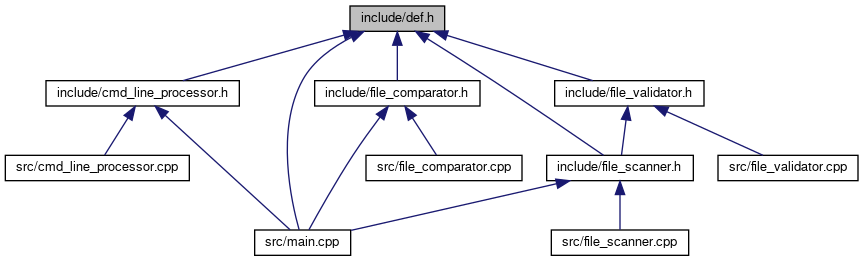
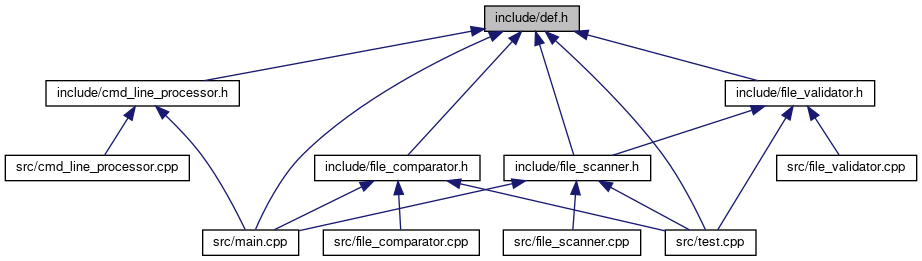
deploy: 3cbf4101b0ae74be3c38de68b1c8c677842af645

diff --git a/dir_000010_000000.html b/dir_000010_000000.html
@@ -65,7 +65,7 @@ $(function() {
 </div>
 </div><!-- top -->
 <div class="contents">
-<h3>src &rarr; include Relation</h3><table class="dirtab"><tr class="dirtab"><th class="dirtab">File in src</th><th class="dirtab">Includes file in include</th></tr><tr class="dirtab"><td class="dirtab"><a class="el" href="cmd__line__processor_8cpp.html">cmd_line_processor.cpp</a></td><td class="dirtab"><a class="el" href="cmd__line__processor_8h.html">cmd_line_processor.h</a></td></tr><tr class="dirtab"><td class="dirtab"><a class="el" href="file__comparator_8cpp.html">file_comparator.cpp</a></td><td class="dirtab"><a class="el" href="file__comparator_8h.html">file_comparator.h</a></td></tr><tr class="dirtab"><td class="dirtab"><a class="el" href="file__scanner_8cpp.html">file_scanner.cpp</a></td><td class="dirtab"><a class="el" href="file__scanner_8h.html">file_scanner.h</a></td></tr><tr class="dirtab"><td class="dirtab"><a class="el" href="file__validator_8cpp.html">file_validator.cpp</a></td><td class="dirtab"><a class="el" href="file__validator_8h.html">file_validator.h</a></td></tr><tr class="dirtab"><td class="dirtab"><a class="el" href="hash__algorithm_8cpp.html">hash_algorithm.cpp</a></td><td class="dirtab"><a class="el" href="hash__algorithm_8h.html">hash_algorithm.h</a></td></tr><tr class="dirtab"><td class="dirtab"><a class="el" href="src_2main_8cpp.html">main.cpp</a></td><td class="dirtab"><a class="el" href="cmd__line__processor_8h.html">cmd_line_processor.h</a></td></tr><tr class="dirtab"><td class="dirtab"><a class="el" href="src_2main_8cpp.html">main.cpp</a></td><td class="dirtab"><a class="el" href="def_8h.html">def.h</a></td></tr><tr class="dirtab"><td class="dirtab"><a class="el" href="src_2main_8cpp.html">main.cpp</a></td><td class="dirtab"><a class="el" href="file__comparator_8h.html">file_comparator.h</a></td></tr><tr class="dirtab"><td class="dirtab"><a class="el" href="src_2main_8cpp.html">main.cpp</a></td><td class="dirtab"><a class="el" href="file__scanner_8h.html">file_scanner.h</a></td></tr></table></div><!-- contents -->
+<h3>src &rarr; include Relation</h3><table class="dirtab"><tr class="dirtab"><th class="dirtab">File in src</th><th class="dirtab">Includes file in include</th></tr><tr class="dirtab"><td class="dirtab"><a class="el" href="cmd__line__processor_8cpp.html">cmd_line_processor.cpp</a></td><td class="dirtab"><a class="el" href="cmd__line__processor_8h.html">cmd_line_processor.h</a></td></tr><tr class="dirtab"><td class="dirtab"><a class="el" href="file__comparator_8cpp.html">file_comparator.cpp</a></td><td class="dirtab"><a class="el" href="file__comparator_8h.html">file_comparator.h</a></td></tr><tr class="dirtab"><td class="dirtab"><a class="el" href="file__scanner_8cpp.html">file_scanner.cpp</a></td><td class="dirtab"><a class="el" href="file__scanner_8h.html">file_scanner.h</a></td></tr><tr class="dirtab"><td class="dirtab"><a class="el" href="file__validator_8cpp.html">file_validator.cpp</a></td><td class="dirtab"><a class="el" href="file__validator_8h.html">file_validator.h</a></td></tr><tr class="dirtab"><td class="dirtab"><a class="el" href="hash__algorithm_8cpp.html">hash_algorithm.cpp</a></td><td class="dirtab"><a class="el" href="hash__algorithm_8h.html">hash_algorithm.h</a></td></tr><tr class="dirtab"><td class="dirtab"><a class="el" href="src_2main_8cpp.html">main.cpp</a></td><td class="dirtab"><a class="el" href="cmd__line__processor_8h.html">cmd_line_processor.h</a></td></tr><tr class="dirtab"><td class="dirtab"><a class="el" href="src_2main_8cpp.html">main.cpp</a></td><td class="dirtab"><a class="el" href="def_8h.html">def.h</a></td></tr><tr class="dirtab"><td class="dirtab"><a class="el" href="src_2main_8cpp.html">main.cpp</a></td><td class="dirtab"><a class="el" href="file__comparator_8h.html">file_comparator.h</a></td></tr><tr class="dirtab"><td class="dirtab"><a class="el" href="src_2main_8cpp.html">main.cpp</a></td><td class="dirtab"><a class="el" href="file__scanner_8h.html">file_scanner.h</a></td></tr><tr class="dirtab"><td class="dirtab"><a class="el" href="test_8cpp.html">test.cpp</a></td><td class="dirtab"><a class="el" href="def_8h.html">def.h</a></td></tr><tr class="dirtab"><td class="dirtab"><a class="el" href="test_8cpp.html">test.cpp</a></td><td class="dirtab"><a class="el" href="file__comparator_8h.html">file_comparator.h</a></td></tr><tr class="dirtab"><td class="dirtab"><a class="el" href="test_8cpp.html">test.cpp</a></td><td class="dirtab"><a class="el" href="file__scanner_8h.html">file_scanner.h</a></td></tr><tr class="dirtab"><td class="dirtab"><a class="el" href="test_8cpp.html">test.cpp</a></td><td class="dirtab"><a class="el" href="file__validator_8h.html">file_validator.h</a></td></tr><tr class="dirtab"><td class="dirtab"><a class="el" href="test_8cpp.html">test.cpp</a></td><td class="dirtab"><a class="el" href="hash__algorithm_8h.html">hash_algorithm.h</a></td></tr></table></div><!-- contents -->
 <!-- start footer part -->
 <hr class="footer"/><address class="footer"><small>
 Generated by&#160;<a href="https://www.doxygen.org/index.html"><img class="footer" src="doxygen.svg" width="104" height="31" alt="doxygen"/></a> 1.9.1

diff --git a/test_8cpp.html b/test_8cpp.html
@@ -73,13 +73,33 @@ $(function() {
 </div><!--header-->
 <div class="contents">
 <div class="textblock"><code>#include &lt;boost/test/unit_test.hpp&gt;</code><br />
+<code>#include &lt;iostream&gt;</code><br />
+<code>#include &lt;filesystem&gt;</code><br />
+<code>#include &quot;<a class="el" href="def_8h_source.html">../include/def.h</a>&quot;</code><br />
+<code>#include &quot;<a class="el" href="file__scanner_8h_source.html">../include/file_scanner.h</a>&quot;</code><br />
+<code>#include &quot;<a class="el" href="file__comparator_8h_source.html">../include/file_comparator.h</a>&quot;</code><br />
+<code>#include &quot;<a class="el" href="file__validator_8h_source.html">../include/file_validator.h</a>&quot;</code><br />
+<code>#include &quot;<a class="el" href="hash__algorithm_8h_source.html">../include/hash_algorithm.h</a>&quot;</code><br />
+<code>#include &lt;memory&gt;</code><br />
+<code>#include &lt;vector&gt;</code><br />
 </div><div class="textblock"><div class="dynheader">
 Include dependency graph for test.cpp:</div>
 <div class="dyncontent">
 <div class="center"><img src="test_8cpp__incl.png" border="0" usemap="#asrc_2test_8cpp" alt=""/></div>
 <map name="asrc_2test_8cpp" id="asrc_2test_8cpp">
-<area shape="rect" title=" " alt="" coords="39,5,130,32"/>
+<area shape="rect" title=" " alt="" coords="455,5,546,32"/>
 <area shape="rect" title=" " alt="" coords="5,80,164,107"/>
+<area shape="rect" title=" " alt="" coords="626,229,698,256"/>
+<area shape="rect" title=" " alt="" coords="239,229,319,256"/>
+<area shape="rect" href="def_8h.html" title=" " alt="" coords="496,229,601,256"/>
+<area shape="rect" title=" " alt="" coords="752,304,820,331"/>
+<area shape="rect" title=" " alt="" coords="429,304,487,331"/>
+<area shape="rect" href="file__scanner_8h.html" title=" " alt="" coords="365,80,521,107"/>
+<area shape="rect" href="file__validator_8h.html" title=" " alt="" coords="315,155,419,181"/>
+<area shape="rect" href="file__comparator_8h.html" title=" " alt="" coords="648,155,823,181"/>
+<area shape="rect" href="hash__algorithm_8h.html" title=" " alt="" coords="886,229,1006,256"/>
+<area shape="rect" title=" " alt="" coords="515,304,582,331"/>
+<area shape="rect" title=" " alt="" coords="919,304,973,331"/>
 </map>
 </div>
 </div><table class="memberdecls">

diff --git a/def_8h.html b/def_8h.html
@@ -91,16 +91,17 @@ This graph shows which files directly or indirectly include this file:</div>
 <div class="dyncontent">
 <div class="center"><img src="def_8h__dep__incl.png" border="0" usemap="#ainclude_2def_8hdep" alt=""/></div>
 <map name="ainclude_2def_8hdep" id="ainclude_2def_8hdep">
-<area shape="rect" title=" " alt="" coords="350,5,445,32"/>
+<area shape="rect" title=" " alt="" coords="485,5,579,32"/>
 <area shape="rect" href="cmd__line__processor_8h.html" title=" " alt="" coords="46,80,239,107"/>
-<area shape="rect" href="src_2main_8cpp.html" title=" " alt="" coords="255,229,351,256"/>
-<area shape="rect" href="file__comparator_8h.html" title=" " alt="" coords="315,80,480,107"/>
-<area shape="rect" href="file__scanner_8h.html" title=" " alt="" coords="547,155,693,181"/>
-<area shape="rect" href="file__validator_8h.html" title=" " alt="" coords="555,80,704,107"/>
+<area shape="rect" href="src_2main_8cpp.html" title=" " alt="" coords="203,229,299,256"/>
+<area shape="rect" href="file__comparator_8h.html" title=" " alt="" coords="315,155,480,181"/>
+<area shape="rect" href="test_8cpp.html" title=" " alt="" coords="665,229,756,256"/>
+<area shape="rect" href="file__scanner_8h.html" title=" " alt="" coords="504,155,651,181"/>
+<area shape="rect" href="file__validator_8h.html" title=" " alt="" coords="725,80,875,107"/>
 <area shape="rect" href="cmd__line__processor_8cpp.html" title=" " alt="" coords="5,155,189,181"/>
-<area shape="rect" href="file__comparator_8cpp.html" title=" " alt="" coords="366,155,522,181"/>
-<area shape="rect" href="file__scanner_8cpp.html" title=" " alt="" coords="551,229,689,256"/>
-<area shape="rect" href="file__validator_8cpp.html" title=" " alt="" coords="718,155,858,181"/>
+<area shape="rect" href="file__comparator_8cpp.html" title=" " alt="" coords="323,229,479,256"/>
+<area shape="rect" href="file__scanner_8cpp.html" title=" " alt="" coords="503,229,641,256"/>
+<area shape="rect" href="file__validator_8cpp.html" title=" " alt="" coords="777,155,917,181"/>
 </map>
 </div>
 </div>

diff --git a/hash__algorithm_8h.html b/hash__algorithm_8h.html
@@ -89,9 +89,10 @@ This graph shows which files directly or indirectly include this file:</div>
 <div class="dyncontent">
 <div class="center"><img src="hash__algorithm_8h__dep__incl.png" border="0" usemap="#ainclude_2hash__algorithm_8hdep" alt=""/></div>
 <map name="ainclude_2hash__algorithm_8hdep" id="ainclude_2hash__algorithm_8hdep">
-<area shape="rect" title=" " alt="" coords="167,5,333,32"/>
-<area shape="rect" href="file__comparator_8h.html" title=" " alt="" coords="75,80,241,107"/>
-<area shape="rect" href="hash__algorithm_8cpp.html" title=" " alt="" coords="265,80,421,107"/>
+<area shape="rect" title=" " alt="" coords="270,5,435,32"/>
+<area shape="rect" href="file__comparator_8h.html" title=" " alt="" coords="150,80,315,107"/>
+<area shape="rect" href="test_8cpp.html" title=" " alt="" coords="307,155,398,181"/>
+<area shape="rect" href="hash__algorithm_8cpp.html" title=" " alt="" coords="391,80,547,107"/>
 <area shape="rect" href="file__comparator_8cpp.html" title=" " alt="" coords="5,155,161,181"/>
 <area shape="rect" href="src_2main_8cpp.html" title=" " alt="" coords="186,155,282,181"/>
 </map>

diff --git a/file__validator_8h.html b/file__validator_8h.html
@@ -94,9 +94,10 @@ This graph shows which files directly or indirectly include this file:</div>
 <div class="dyncontent">
 <div class="center"><img src="file__validator_8h__dep__incl.png" border="0" usemap="#ainclude_2file__validator_8hdep" alt=""/></div>
 <map name="ainclude_2file__validator_8hdep" id="ainclude_2file__validator_8hdep">
-<area shape="rect" title=" " alt="" coords="154,5,303,32"/>
-<area shape="rect" href="file__scanner_8h.html" title=" " alt="" coords="71,80,218,107"/>
-<area shape="rect" href="file__validator_8cpp.html" title=" " alt="" coords="243,80,383,107"/>
+<area shape="rect" title=" " alt="" coords="255,5,405,32"/>
+<area shape="rect" href="file__scanner_8h.html" title=" " alt="" coords="145,80,291,107"/>
+<area shape="rect" href="test_8cpp.html" title=" " alt="" coords="287,155,378,181"/>
+<area shape="rect" href="file__validator_8cpp.html" title=" " alt="" coords="368,80,508,107"/>
 <area shape="rect" href="file__scanner_8cpp.html" title=" " alt="" coords="5,155,143,181"/>
 <area shape="rect" href="src_2main_8cpp.html" title=" " alt="" coords="167,155,263,181"/>
 </map>

diff --git a/file__comparator_8h.html b/file__comparator_8h.html
@@ -97,9 +97,10 @@ This graph shows which files directly or indirectly include this file:</div>
 <div class="dyncontent">
 <div class="center"><img src="file__comparator_8h__dep__incl.png" border="0" usemap="#ainclude_2file__comparator_8hdep" alt=""/></div>
 <map name="ainclude_2file__comparator_8hdep" id="ainclude_2file__comparator_8hdep">
-<area shape="rect" title=" " alt="" coords="75,5,241,32"/>
+<area shape="rect" title=" " alt="" coords="151,5,317,32"/>
 <area shape="rect" href="file__comparator_8cpp.html" title=" " alt="" coords="5,80,161,107"/>
 <area shape="rect" href="src_2main_8cpp.html" title=" " alt="" coords="186,80,282,107"/>
+<area shape="rect" href="test_8cpp.html" title=" " alt="" coords="306,80,397,107"/>
 </map>
 </div>
 </div>

diff --git a/file__scanner_8h.html b/file__scanner_8h.html
@@ -93,9 +93,10 @@ This graph shows which files directly or indirectly include this file:</div>
 <div class="dyncontent">
 <div class="center"><img src="file__scanner_8h__dep__incl.png" border="0" usemap="#ainclude_2file__scanner_8hdep" alt=""/></div>
 <map name="ainclude_2file__scanner_8hdep" id="ainclude_2file__scanner_8hdep">
-<area shape="rect" title=" " alt="" coords="71,5,218,32"/>
+<area shape="rect" title=" " alt="" coords="142,5,289,32"/>
 <area shape="rect" href="file__scanner_8cpp.html" title=" " alt="" coords="5,80,143,107"/>
 <area shape="rect" href="src_2main_8cpp.html" title=" " alt="" coords="167,80,263,107"/>
+<area shape="rect" href="test_8cpp.html" title=" " alt="" coords="287,80,378,107"/>
 </map>
 </div>
 </div>

diff --git a/dir_68267d1309a1af8e8297ef4c3efbcdba.html b/dir_68267d1309a1af8e8297ef4c3efbcdba.html
@@ -76,7 +76,7 @@ Directory dependency graph for src:</div>
 <map name="adir__68267d1309a1af8e8297ef4c3efbcdba__dep" id="adir__68267d1309a1af8e8297ef4c3efbcdba__dep">
 <area shape="rect" href="dir_68267d1309a1af8e8297ef4c3efbcdba.html" title="src" alt="" coords="5,5,77,53"/>
 <area shape="rect" href="dir_d44c64559bbebec7f509842c48db8b23.html" title="include" alt="" coords="5,101,77,149"/>
-<area shape="rect" href="dir_000010_000000.html" title="9" alt="" coords="46,76,54,90"/>
+<area shape="rect" href="dir_000010_000000.html" title="14" alt="" coords="42,76,57,90"/>
 </map>
 </div>
 <table class="memberdecls">
